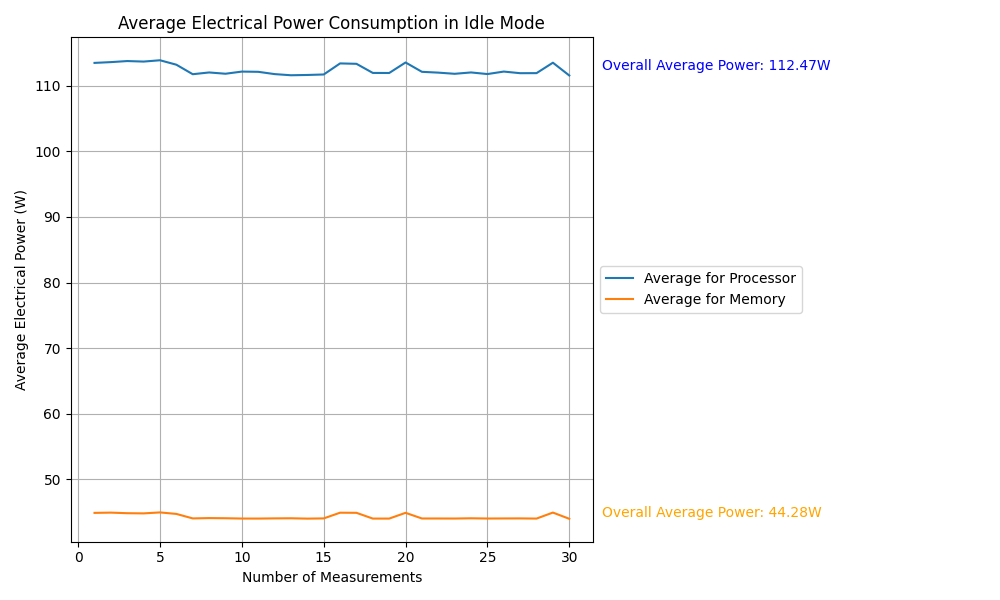
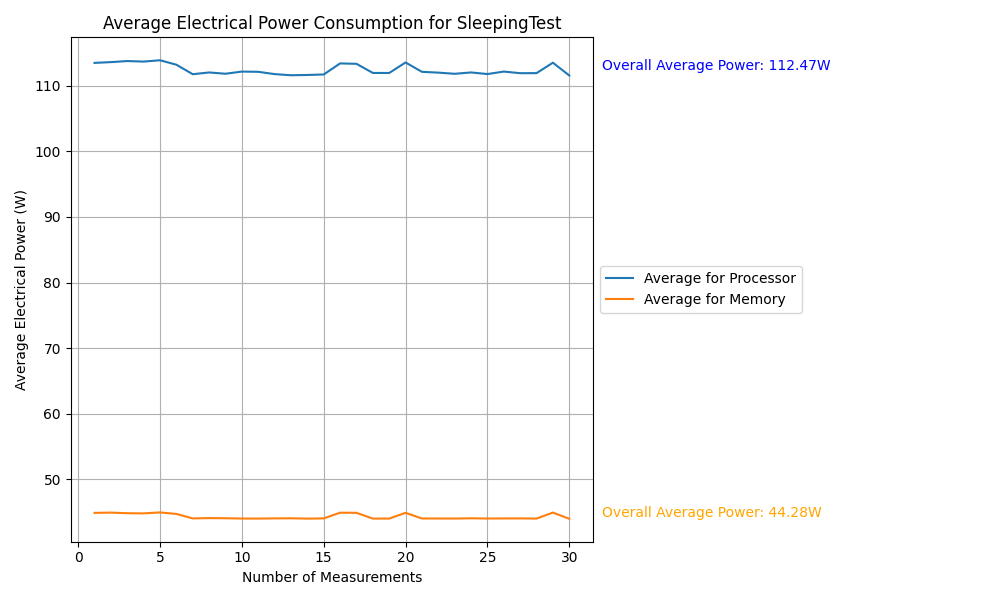
new sleeping  test graph and set correct graph title

Changed region(s): [[0.093, 0.03, 0.558, 0.06]]

diff --git a/CpuIntensiveApp/Plot-Data/plot_results_4_test.py b/CpuIntensiveApp/Plot-Data/plot_results_4_test.py
@@ -59,8 +59,8 @@ else:
     # Adding labels and title
     plt.xlabel('Number of Measurements')
     plt.ylabel('Average Electrical Power (W)')
-    #plt.title(f'Average Electrical Power Consumption for {test_name}')
-    plt.title(f'Average Electrical Power Consumption in Idle Mode')
+    plt.title(f'Average Electrical Power Consumption for {test_name}')
+    #plt.title(f'Average Electrical Power Consumption in Idle Mode')
     plt.legend(loc='center left', bbox_to_anchor=(1, 0.5))  # Legend beside the graph
     plt.grid(True)
 
